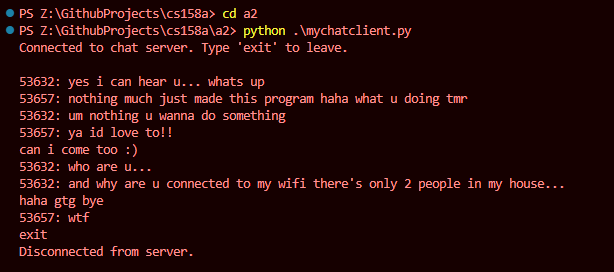
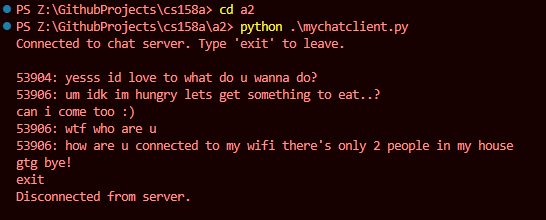
fixed server to show messages

Changed region(s): [[0.0311, 0.2727, 0.9652, 0.9545], [0.0, 0.0, 0.7473, 0.2455]]

diff --git a/a2/mychatserver.py b/a2/mychatserver.py
@@ -23,9 +23,11 @@ def connect_client(client_conn, addr):
             client_conn.close()
             break
         else:
-            for other_client in clients: # send message to all other clients
-                if other_client != client_conn: # do not send message back to sender
-                    other_client.send(f"{addr[1]}: {msg}".encode())
+            print(f"{addr[1]}: {msg}") # print message from clients
+            with lock:
+                for other_client in clients: # send message to all other clients
+                    if other_client != client_conn: # do not send message back to sender
+                        other_client.send(f"{addr[1]}: {msg}".encode())
 
 def main (): 
     serverSocket = socket(AF_INET, SOCK_STREAM) # create TCP socket
